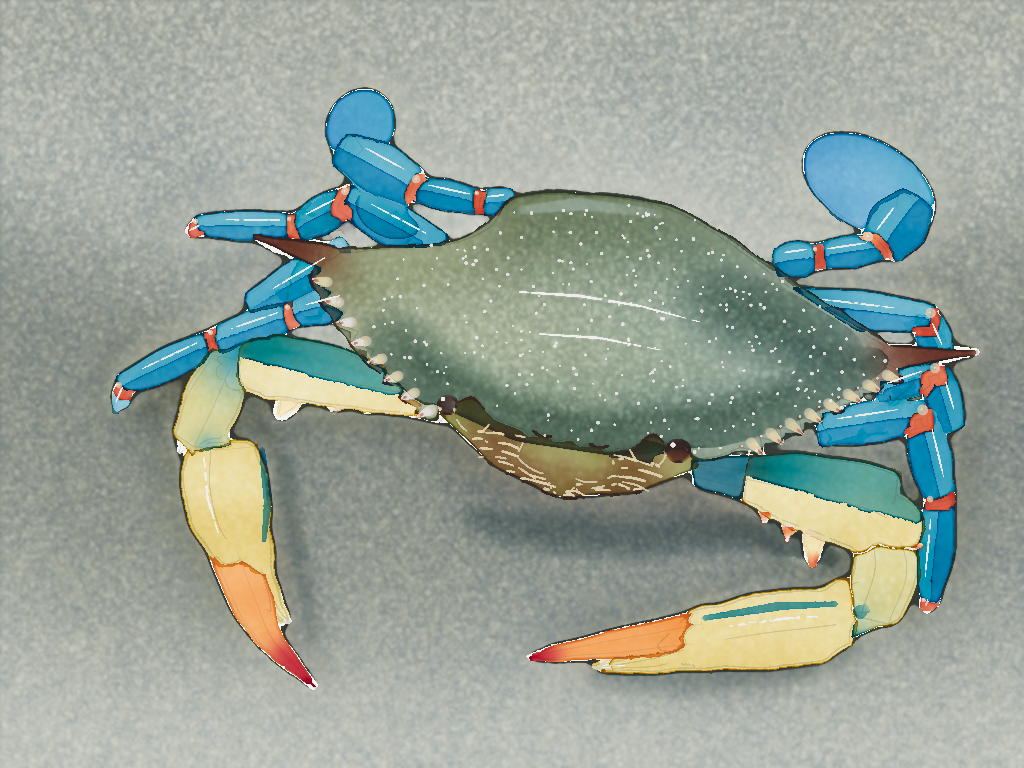
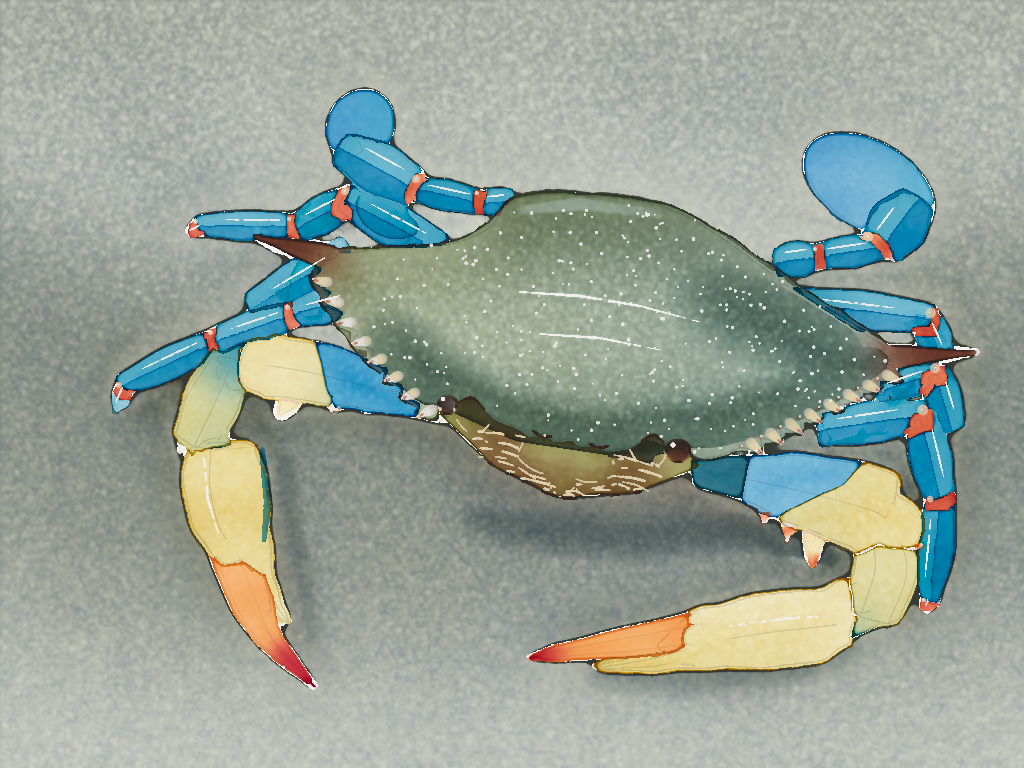
Blue crab 2: claw arms as two fields (blue near the body, cream at the elbow) meeting on a measured boundary, not a gradient; stray stroke and right-palm stripe removed

diff --git a/paintings/blue-crab-beach-2.js b/paintings/blue-crab-beach-2.js
@@ -324,6 +324,14 @@ const halves = m => {
 const count = m => { let n = 0; for (let c = 0; c < m.length; c++) n += m[c]; return n; };
 // the part of a form's region past fraction t along its spine (a spine's tip)
 const pastAlong = (f, t0) => { const a = toSheet(f.spine[0]), b = toSheet(f.spine.at(-1)), ex = b[0] - a[0], ey = b[1] - a[1], L2 = ex * ex + ey * ey, m = grow(regionOf(f), 1), o = new Uint8Array(m.length); for (let c = 0; c < m.length; c++) if (m[c] && ((c % SW - a[0]) * ex + (((c / SW) | 0) - a[1]) * ey) / L2 >= t0) o[c] = 1; return o; };
+// a region split by a measured boundary (a polyline, extended at its ends): the side holding
+// the reference point, and the rest
+const splitBy = (m, line, ref) => {
+  const sideAt = (x, y) => { let best = Infinity, sd = 0; for (let i = 0; i < line.length - 1; i++) { const [ax, ay] = line[i], [bx, by] = line[i + 1], ex = bx - ax, ey = by - ay, L2 = ex * ex + ey * ey; let t = ((x - ax) * ex + (y - ay) * ey) / L2; if (i > 0) t = Math.max(0, t); if (i < line.length - 2) t = Math.min(1, t); const dx = x - ax - ex * t, dy = y - ay - ey * t, d = dx * dx + dy * dy; if (d < best) { best = d; sd = ex * (y - ay) - ey * (x - ax); } } return sd; };
+  const want = Math.sign(sideAt(...ref)), a = new Uint8Array(m.length), b = new Uint8Array(m.length);
+  for (let c = 0; c < m.length; c++) if (m[c]) (Math.sign(sideAt(c % SW, (c / SW) | 0)) === want ? a : b)[c] = 1;
+  return [a, b];
+};
 const has = m => { for (let c = 0; c < m.length; c += 7) if (m[c]) return true; return false; };
 // the front's cluster: from the shell's front edge down to its lower outline
 const clusterPoly = [...front, ...clusterEdge];
@@ -500,21 +508,29 @@ window.__paintDone = (async () => {
   for (const C of [R, L]) {
     const segs = C.forms.filter(f => f.kind === 'mass');   // arm, carpus, propodus (and the right's shoulder is a prism, first)
     const [armM, carpM, propM] = segs;
-    // cream first, all over the arm (the painter: cream wants more presence)
-    h.setBrushPreset('round'); V.brushRadius = 9; V.dipLoad = 0.7;
-    h.setBrush([['Transparent Yellow Oxide', 1], ['Raw Umber', 0.3]]); V.brushPigment = 0.13;
-    await washIn(own(armM, [carpM]));
-    // the palm (with the fixed finger): warm cream
-    V.brushPigment = 0.14; await washIn(own(propM, [carpM]));
+    // the arm: two fields, not a gradient (the painter): sky blue over its near part, cream over
+    // the elbow end, meeting along a boundary measured on zooms; the cream laid against the blue
+    // while it's wet, so a thin green forms where they meet, as on the photo. (Pass 5 split the arm
+    // lengthwise, teal glazed over dry cream; a variegated wash was a gradient.)
+    const arm = own(armM, [carpM]), [blueSide, creamSide] = splitBy(arm, C === R ? [[798, 506], [822, 494], [845, 484], [860, 465], [870, 455]] : [[312, 333], [321, 363], [327, 391], [332, 402]], C === R ? [760, 470] : [370, 380]);
+    h.setBrushPreset('round'); V.brushRadius = 8; V.dipLoad = 0.7;
+    h.setBrush([['Phthalo Blue (GS)', 1], ['Phthalo Turquoise', 0.5], ['French Ultramarine', 0.3]]); V.brushPigment = 0.24;
+    await washIn(blueSide);
+    // (laid into the blue while still very wet, pass 6's cream bled across ~40 cells: a gradient
+    // again. Damp, it meets with a soft edge and a thin green)
+    await S.skipTo('damp', { points: [C === R ? [780, 480] : [360, 375]] });
+    h.setBrush([['Transparent Yellow Oxide', 1], ['Raw Umber', 0.3]]); V.brushPigment = 0.14;
+    await washIn(creamSide);
+    // the palm (with the fixed finger): warm cream (the painter: cream wants more presence)
+    h.setBrush([['Transparent Yellow Oxide', 1], ['Raw Umber', 0.3]]); V.brushPigment = 0.14; V.dipLoad = 0.7;
+    await washIn(own(propM, [carpM]));
   }
   await dry();
   for (const C of [R, L]) {
     const segs = C.forms.filter(f => f.kind === 'mass'), [armM, carpM, propM] = segs;
     h.setBrush([['Transparent Yellow Oxide', 1], ['Raw Umber', 0.35], ['Phthalo Turquoise', 0.1]]); V.brushPigment = 0.13; V.dipLoad = 0.7;
     await washIn(own(carpM, [armM, propM]));
-    // then the arm's blue, on its upper half only, over the dry cream
-    h.setBrush([['Phthalo Blue (GS)', 1], ['Phthalo Turquoise', 1]]); V.brushPigment = 0.3; V.dipLoad = 0.6;
-    S.tool('wash'); await S.wash({ mask: halves(own(armM, [carpM])).up }, { kind: 'graded', fadeTo: 0.5, paper: 'moist' });
+
     // the membrane collars at wrist and elbow: blue bands
     h.setBrush([['Phthalo Blue (GS)', 1], ['Phthalo Turquoise', 0.6]]); V.brushPigment = 0.32; V.dipLoad = 0.5;
     for (const f of C === R ? [C.forms[5], C.forms[6]] : [C.forms[4], C.forms[5]]) await washIn(regionOf(f));
@@ -531,12 +547,14 @@ window.__paintDone = (async () => {
     S.tool('paint'); h.setBrush([['Quinacridone Magenta', 1.5], ['Perylene Maroon', 1]]); V.brushPigment = 0.5; V.dipLoad = 0.4; V.brushRadius = 4;
     await S.path([[...pre, 0.8], [...tip, 0.2]], 6);
   }
-  log('a blue edge along the top of each palm, and blue at the wrists');
+  log('the left palm\'s blue upper face along its right side');
+  // (no stripe on the right palm: it was the first painting's palm-edge line, misplaced into the
+  // middle of the palm, and the photo's right palm is cream throughout; the wrist blue is the collar)
   S.tool('paint'); h.setBrushPreset('round'); V.brushRadius = 7; V.brushPigment = 0.3; V.dipLoad = 0.45;
   h.setBrush([['Phthalo Blue (GS)', 1], ['Phthalo Turquoise', 0.6]]);
-  await S.path([[705, 618, 0.25], [780, 606, 0.6], [835, 604, 0.3]], 6);
   await S.path([[262, 450, 0.3], [268, 500, 0.6], [264, 540, 0.25]], 6);
-  for (const c of [[860, 612], [207, 444]]) await dab(c, 8, 4);
+  // (a touch of blue meant for the right carpus's inner edge landed on the sand: a crop's
+  // coordinates converted wrong; dropped)
   await dry();
   S.tool('paint'); h.setBrush('White Gouache'); V.brushPigment = 0.5; V.dipLoad = 0.25; V.brushRadius = 2;
   await S.path([[730, 626, 0.3], [790, 618, 0.7], [832, 616, 0.3]], 3);
